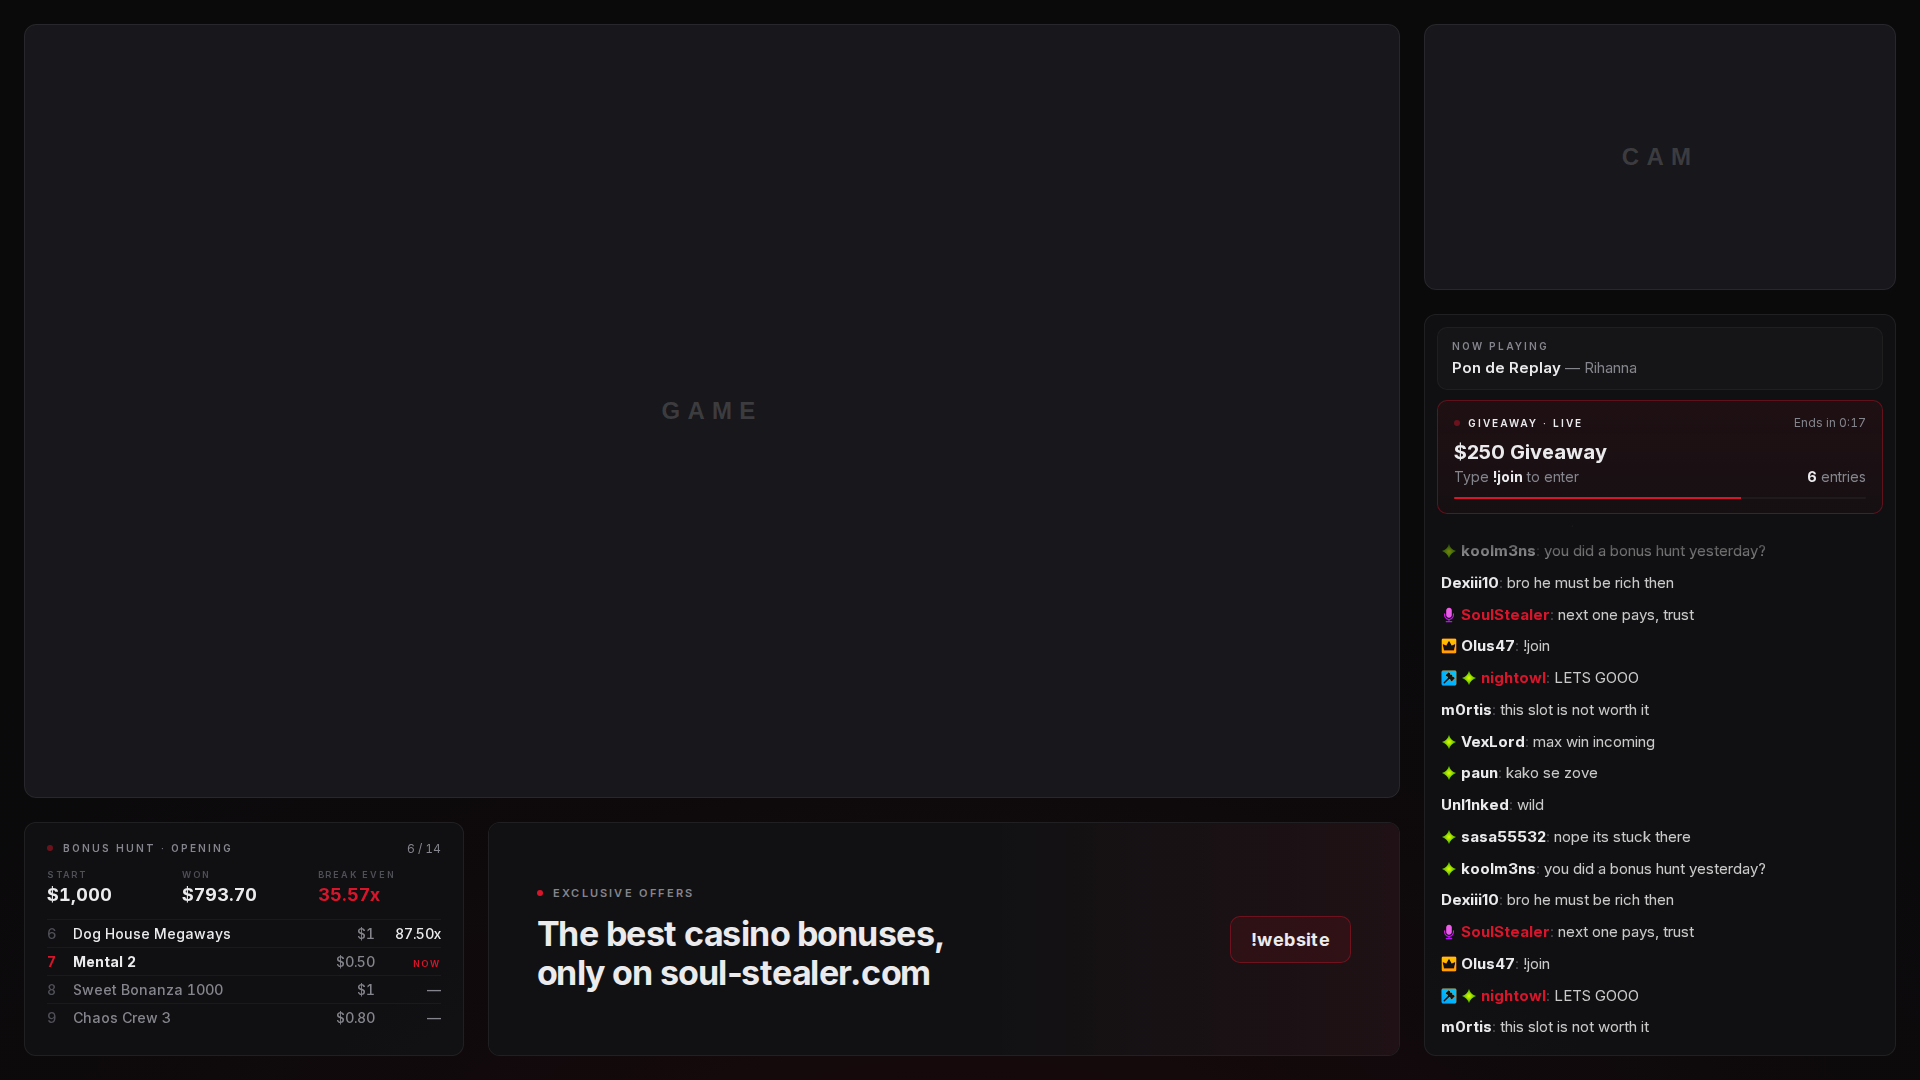
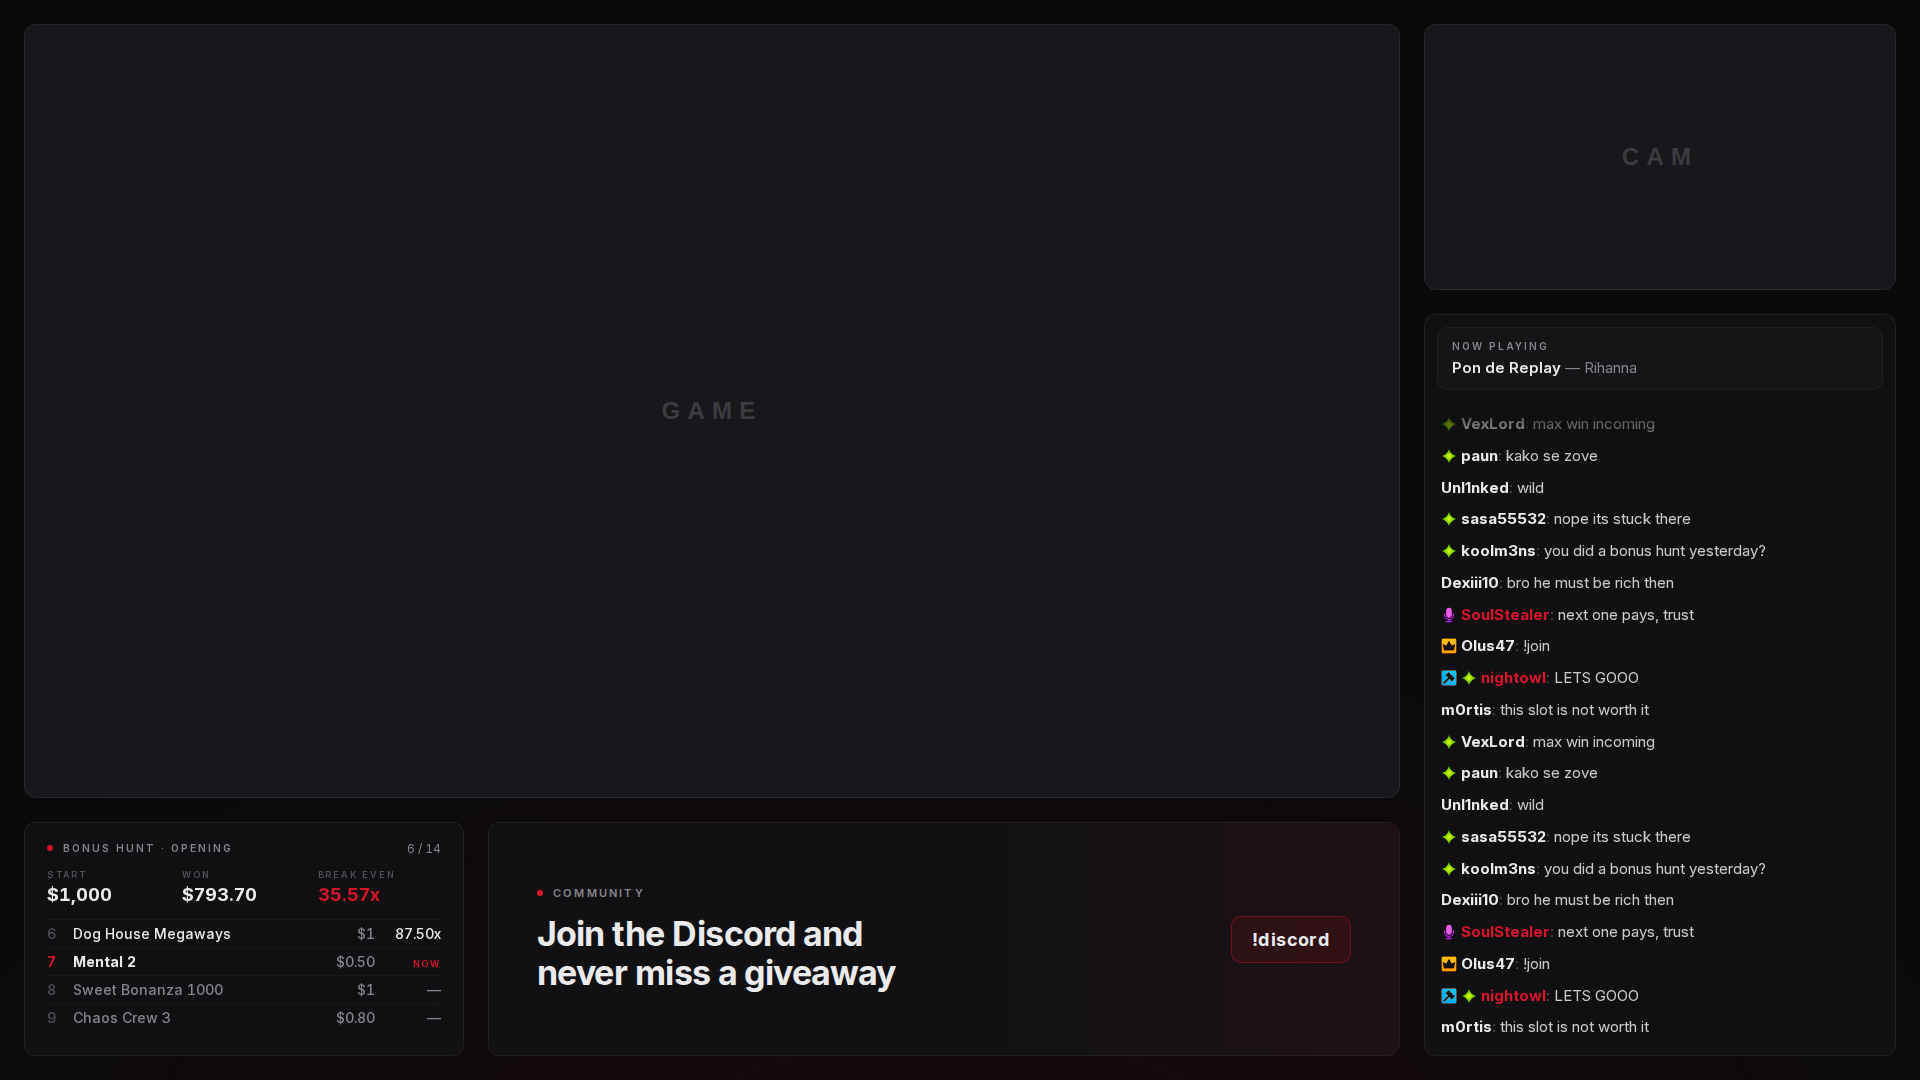
Now playing at the top of the chat on both overlays
The brand panel on /overlay is now just logo, name and site; the song card
sits above the giveaway event in the chat column on both overlays.

Claude-Session: https://claude.ai/code/session_01DufrwKLJ7Uz9eHZV2u42wT

diff --git a/components/chat-column.tsx b/components/chat-column.tsx
@@ -19,10 +19,9 @@ const BADGES = new Set(["broadcaster", "moderator", "vip", "subscriber", "og", "
  * layout of the Trinido stream column. Events push the chat down while they
  * are on, and give the space back when they end.
  *
- * `nowPlaying` is for /overlay/hunt, where the hunt has taken the brand
- * panel's place: the song then sits at the top of the column instead.
+ * The song Spotify is playing sits at the very top, only while it plays.
  */
-export function ChatColumn({ demo, nowPlaying }: { demo: boolean; nowPlaying: boolean }) {
+export function ChatColumn({ demo }: { demo: boolean }) {
   const data = usePoll<GiveawayResponse>("/api/giveaway", 2000, demo ? () => ({ giveaway: demoGiveaway(), configured: true }) : undefined)
   const live = useKickChat(!demo)
   const tick = useNow(demo ? 500 : 60_000)
@@ -34,15 +33,13 @@ export function ChatColumn({ demo, nowPlaying }: { demo: boolean; nowPlaying: bo
 
   return (
     <div className="panel" style={{ ...at(LAYOUT.chat), padding: CHAT_PAD, display: "flex", flexDirection: "column" }}>
-      {nowPlaying && (
-        <Reveal show={!!song}>
-          {lastSong.current && (
-            <div style={{ padding: "12px 14px", marginBottom: 10, borderRadius: 10, background: "var(--sunk)", border: "1px solid var(--line-soft)" }}>
-              <NowPlayingLine song={lastSong.current} />
-            </div>
-          )}
-        </Reveal>
-      )}
+      <Reveal show={!!song}>
+        {lastSong.current && (
+          <div style={{ padding: "12px 14px", marginBottom: 10, borderRadius: 10, background: "var(--sunk)", border: "1px solid var(--line-soft)" }}>
+            <NowPlayingLine song={lastSong.current} />
+          </div>
+        )}
+      </Reveal>
 
       <GiveawayEvent giveaway={data?.giveaway ?? null} />
 

diff --git a/components/brand-panel.tsx b/components/brand-panel.tsx
@@ -2,19 +2,13 @@
 
 import { BRAND } from "@/lib/config"
 import { at, LAYOUT } from "@/lib/layout"
-import { NowPlayingLine, useNowPlaying } from "@/components/now-playing"
 import { ReaperMark } from "@/components/reaper-mark"
 
-/**
- * Bottom left on /overlay: who this is, and — only while Spotify is actually
- * playing — one quiet line saying what. Nothing playing, no line.
- */
-export function BrandPanel({ demo }: { demo: boolean }) {
-  const song = useNowPlaying(demo)
-
+/** Bottom left on /overlay: who this is. */
+export function BrandPanel() {
   return (
-    <div className="panel" style={{ ...at(LAYOUT.side), padding: "0 28px", display: "flex", flexDirection: "column" }}>
-      <div style={{ flex: 1, display: "flex", alignItems: "center", gap: 16 }}>
+    <div className="panel" style={{ ...at(LAYOUT.side), padding: "0 32px", display: "flex", flexDirection: "column" }}>
+      <div style={{ flex: 1, display: "flex", alignItems: "center", gap: 18 }}>
         {BRAND.logo ? (
           // eslint-disable-next-line @next/next/no-img-element
           <img src={BRAND.logo} alt="" width={44} height={44} style={{ objectFit: "contain" }} />
@@ -37,12 +31,6 @@ export function BrandPanel({ demo }: { demo: boolean }) {
           <div style={{ fontSize: 13, color: "var(--muted)", marginTop: 6, letterSpacing: "0.04em" }}>{BRAND.site}</div>
         </div>
       </div>
-
-      {song && (
-        <div style={{ borderTop: "1px solid var(--line-soft)", padding: "16px 0 20px" }}>
-          <NowPlayingLine song={song} />
-        </div>
-      )}
     </div>
   )
 }

diff --git a/app/overlay/overlay.tsx b/app/overlay/overlay.tsx
@@ -9,9 +9,9 @@ import { Frame, Plate } from "@/components/scene"
 import { Stage } from "@/components/stage"
 
 /**
- * Both overlays. They differ in one slot, bottom left: the standard one has
- * the brand with the song under it, the hunt one has the bonus hunt there and
- * moves the song to the top of the chat column. The banner never moves.
+ * Both overlays. They differ in one slot, bottom left: the brand on the
+ * standard one, the bonus hunt on the hunt one. Everything else — the chat
+ * with the song and giveaways on top, the big banner — is the same.
  */
 export function Overlay({ demo, plate, hunt }: { demo: boolean; plate: boolean; hunt: boolean }) {
   return (
@@ -20,8 +20,8 @@ export function Overlay({ demo, plate, hunt }: { demo: boolean; plate: boolean; 
       <Frame rect={LAYOUT.game} />
       <Frame rect={LAYOUT.cam} />
 
-      <ChatColumn demo={demo} nowPlaying={hunt} />
-      {hunt ? <HuntPanel demo={demo} /> : <BrandPanel demo={demo} />}
+      <ChatColumn demo={demo} />
+      {hunt ? <HuntPanel demo={demo} /> : <BrandPanel />}
       <BannerRotator style={at(LAYOUT.banner)} />
     </Stage>
   )

diff --git a/README.md b/README.md
@@ -6,10 +6,10 @@ Es gibt **zwei Overlays**. Jedes ist genau **eine Browser Source mit 1920 × 108
 
 | Overlay | URL | Wofür |
 | --- | --- | --- |
-| Standard | `https://<deine-domain>/overlay` | Normale Streams. Unten links Logo, Name und „Now playing“ |
-| Hunt | `https://<deine-domain>/overlay/hunt` | Bonus-Hunt-Streams. Unten links der Bonus Hunt, „Now playing“ wandert oben in die Chat-Spalte |
+| Standard | `https://<deine-domain>/overlay` | Normale Streams. Unten links Logo, Name und Website |
+| Hunt | `https://<deine-domain>/overlay/hunt` | Bonus-Hunt-Streams. Unten links der Bonus Hunt |
 
-Der große Banner unten rechts bleibt auf beiden Overlays gleich.
+Alles andere ist auf beiden Overlays gleich: Chat mit „Now playing“ und Giveaways oben, großer Banner unten rechts.
 
 **Standard**
 
@@ -25,8 +25,8 @@ Auf beiden Overlays:
 | --- | --- | --- |
 | Links oben (groß) | Ausschnitt für das Spiel | – |
 | Rechts oben | Ausschnitt für die Cam | – |
-| Rechts | Kick-Chat. Startet ein Giveaway, erscheint es **oben in der Chat-Box** und schiebt den Chat nach unten. Ist das Giveaway vorbei, verschwindet es wieder | Kick + Giveaway-Modul auf soul-stealer.com |
-| Links unten | Standard: Logo, Name, Website und **Now playing** (nur wenn gerade ein Song läuft). Hunt: Bonus Hunt mit Bonusliste | Spotify / bonushunt.gg |
+| Rechts | Kick-Chat. Ganz oben **Now playing**, solange ein Song läuft. Startet ein Giveaway, erscheint es **oben in der Chat-Box** und schiebt den Chat nach unten. Ist das Giveaway vorbei, verschwindet es wieder | Kick, Spotify, Giveaway-Modul auf soul-stealer.com |
+| Links unten | Standard: Logo, Name, Website. Hunt: Bonus Hunt mit Bonusliste | `lib/config.ts` / bonushunt.gg |
 | Rechts unten | Großer rotierender Banner, auf beiden Overlays | `lib/config.ts` |
 
 Spiel und Cam sind **echte Löcher** im Overlay. Das Overlay liegt in OBS ganz oben, Spiel und Cam darunter scheinen durch. Den Chat zeichnet das Overlay selbst, dafür brauchst du keine eigene Chat-Quelle mehr.
@@ -117,7 +117,7 @@ Gebraucht wird das nur für das **Hunt-Overlay**. Es liest denselben Hunt wie di
 
 Was das Hunt-Widget zeigt:
 
-Das Widget sitzt unten links (dort, wo im Standard-Overlay Logo und Song stehen):
+Das Widget sitzt unten links (dort, wo im Standard-Overlay das Logo steht):
 
 - **Oben rechts** der Fortschritt, z. B. `6 / 14`
 - **Drei Zahlen**: Start, Gewinn und Break-Even. Beim Öffnen ist das der Live-Break-Even, also der Ø-Multi, der für den Rest noch nötig ist
@@ -125,8 +125,6 @@ Das Widget sitzt unten links (dort, wo im Standard-Overlay Logo und Song stehen)
   - beim **Öffnen** der aktuelle Bonus (rot, „NOW“) mit dem vorherigen und den zwei nächsten. Die Liste wandert von selbst mit
   - beim **Sammeln** die zuletzt hinzugefügten Bonusse
   - **nach dem Hunt** die vier besten Bonusse, oben stehen dann Ergebnis und Ø-Multi
-
-„Now playing“ steht im Hunt-Overlay oben in der Chat-Spalte, nur solange ein Song läuft.
 
 bonushunt.gg erlaubt 100 Anfragen pro Minute pro Key, geteilt mit der Website. Das Overlay fragt alle 10 Sekunden und puffert die Antwort auf dem Server. Das bleibt weit unter dem Limit.
 
@@ -210,7 +208,7 @@ So sieht der Ablauf oben in der Chat-Box aus:
 
 ## 7. Spotify verbinden
 
-Dann steht schlicht **Now playing – Titel — Künstler** im Overlay, solange Musik läuft: im Standard-Overlay unten links unter dem Logo, im Hunt-Overlay oben in der Chat-Spalte. Ist Spotify pausiert oder aus, verschwindet die Zeile.
+Dann steht schlicht **Now playing – Titel — Künstler** oben in der Chat-Spalte, auf beiden Overlays, solange Musik läuft. Ist Spotify pausiert oder aus, klappt die Zeile weg.
 
 ### 7.1 Spotify-App anlegen (einmalig)
 
